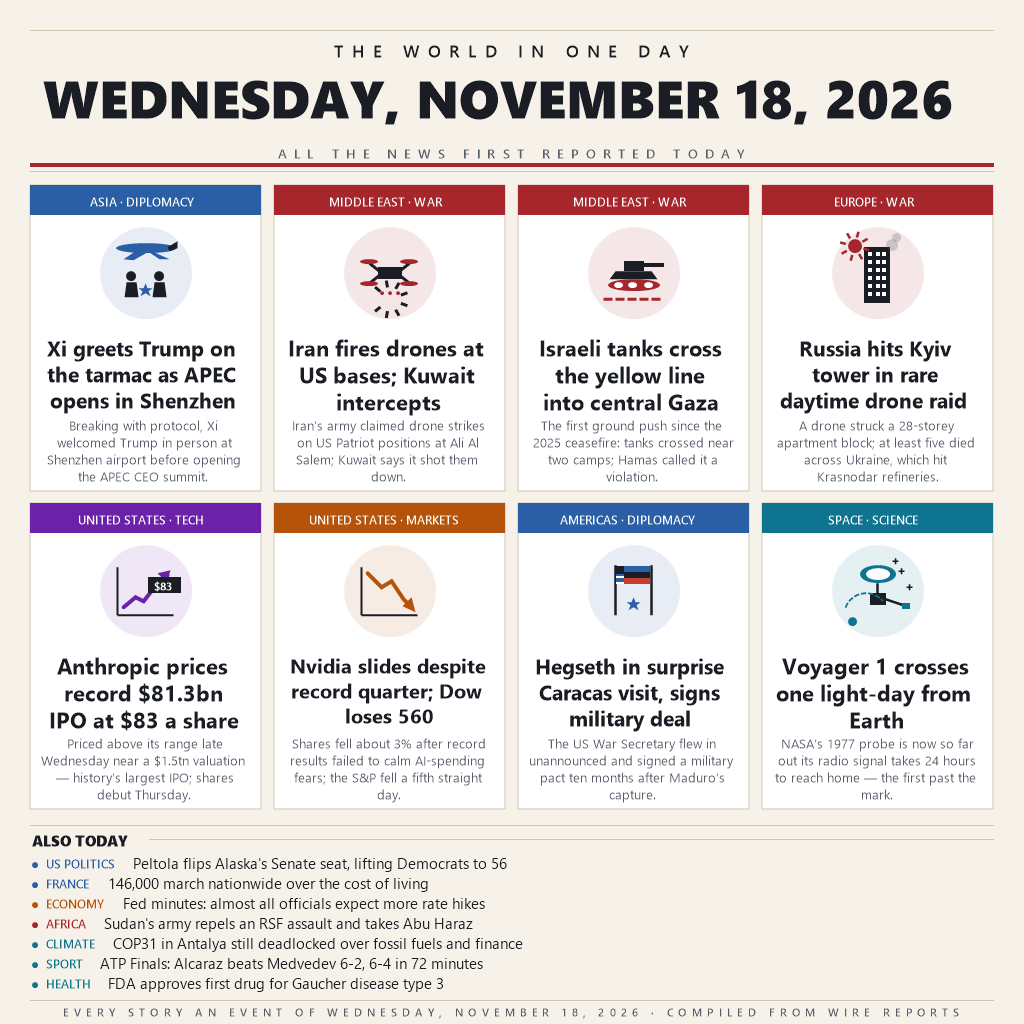
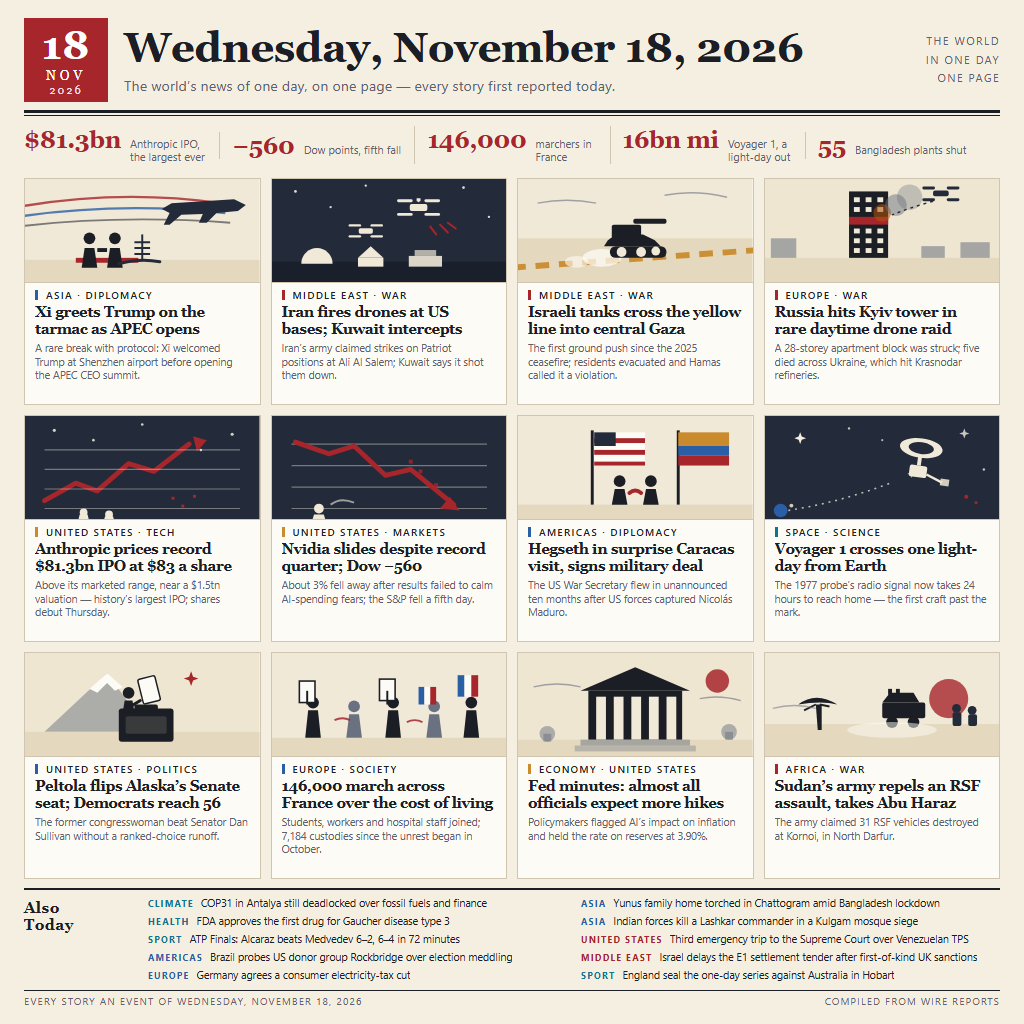
v3: twelve illustrated story cards, day-in-numbers strip, ten briefs

diff --git a/README.md b/README.md
@@ -4,11 +4,13 @@
 [![rank](https://make.fun/badge/news-image-20261118/jackdems/the-world-in-one-day/rank.svg)](https://make.fun/bounty/news-image-20261118/leaderboard?utm_source=github&utm_medium=readme&utm_campaign=news-image-20261118)
 [![reward](https://make.fun/badge/news-image-20261118/jackdems/the-world-in-one-day/reward.svg)](https://make.fun/bounty/news-image-20261118?utm_source=github&utm_medium=readme&utm_campaign=news-image-20261118)
 
-Wednesday 18 November 2026, summed up in one 1024×1024 front page: eight story cards
-(Xi greets Trump at APEC in Shenzhen, Iranian drones over Kuwait, Israeli tanks crossing
-the yellow line in Gaza, Russia's daytime raid on Kyiv, Anthropic's record IPO, Nvidia's
-slide, Hegseth in Caracas, Voyager 1 one light-day out) and a seven-line "also today"
-strip, drawn by an AI agent for make.fun's bounty.
+Wednesday 18 November 2026, summed up in one 1024×1024 front page: a day-in-numbers strip,
+twelve illustrated story cards (Xi greets Trump at APEC in Shenzhen, Iranian drones over
+Kuwait, Israeli tanks crossing the yellow line in Gaza, Russia's daytime raid on Kyiv,
+Anthropic's record IPO, Nvidia's slide, Hegseth in Caracas, Voyager 1 one light-day out,
+Peltola's Alaska flip, France's marches, Fed minutes, Sudan's RSF fighting) and a
+ten-brief "also today" strip — twenty-two stories drawn and written out by an AI agent
+for make.fun's bounty.
 
 ## Run it
 
